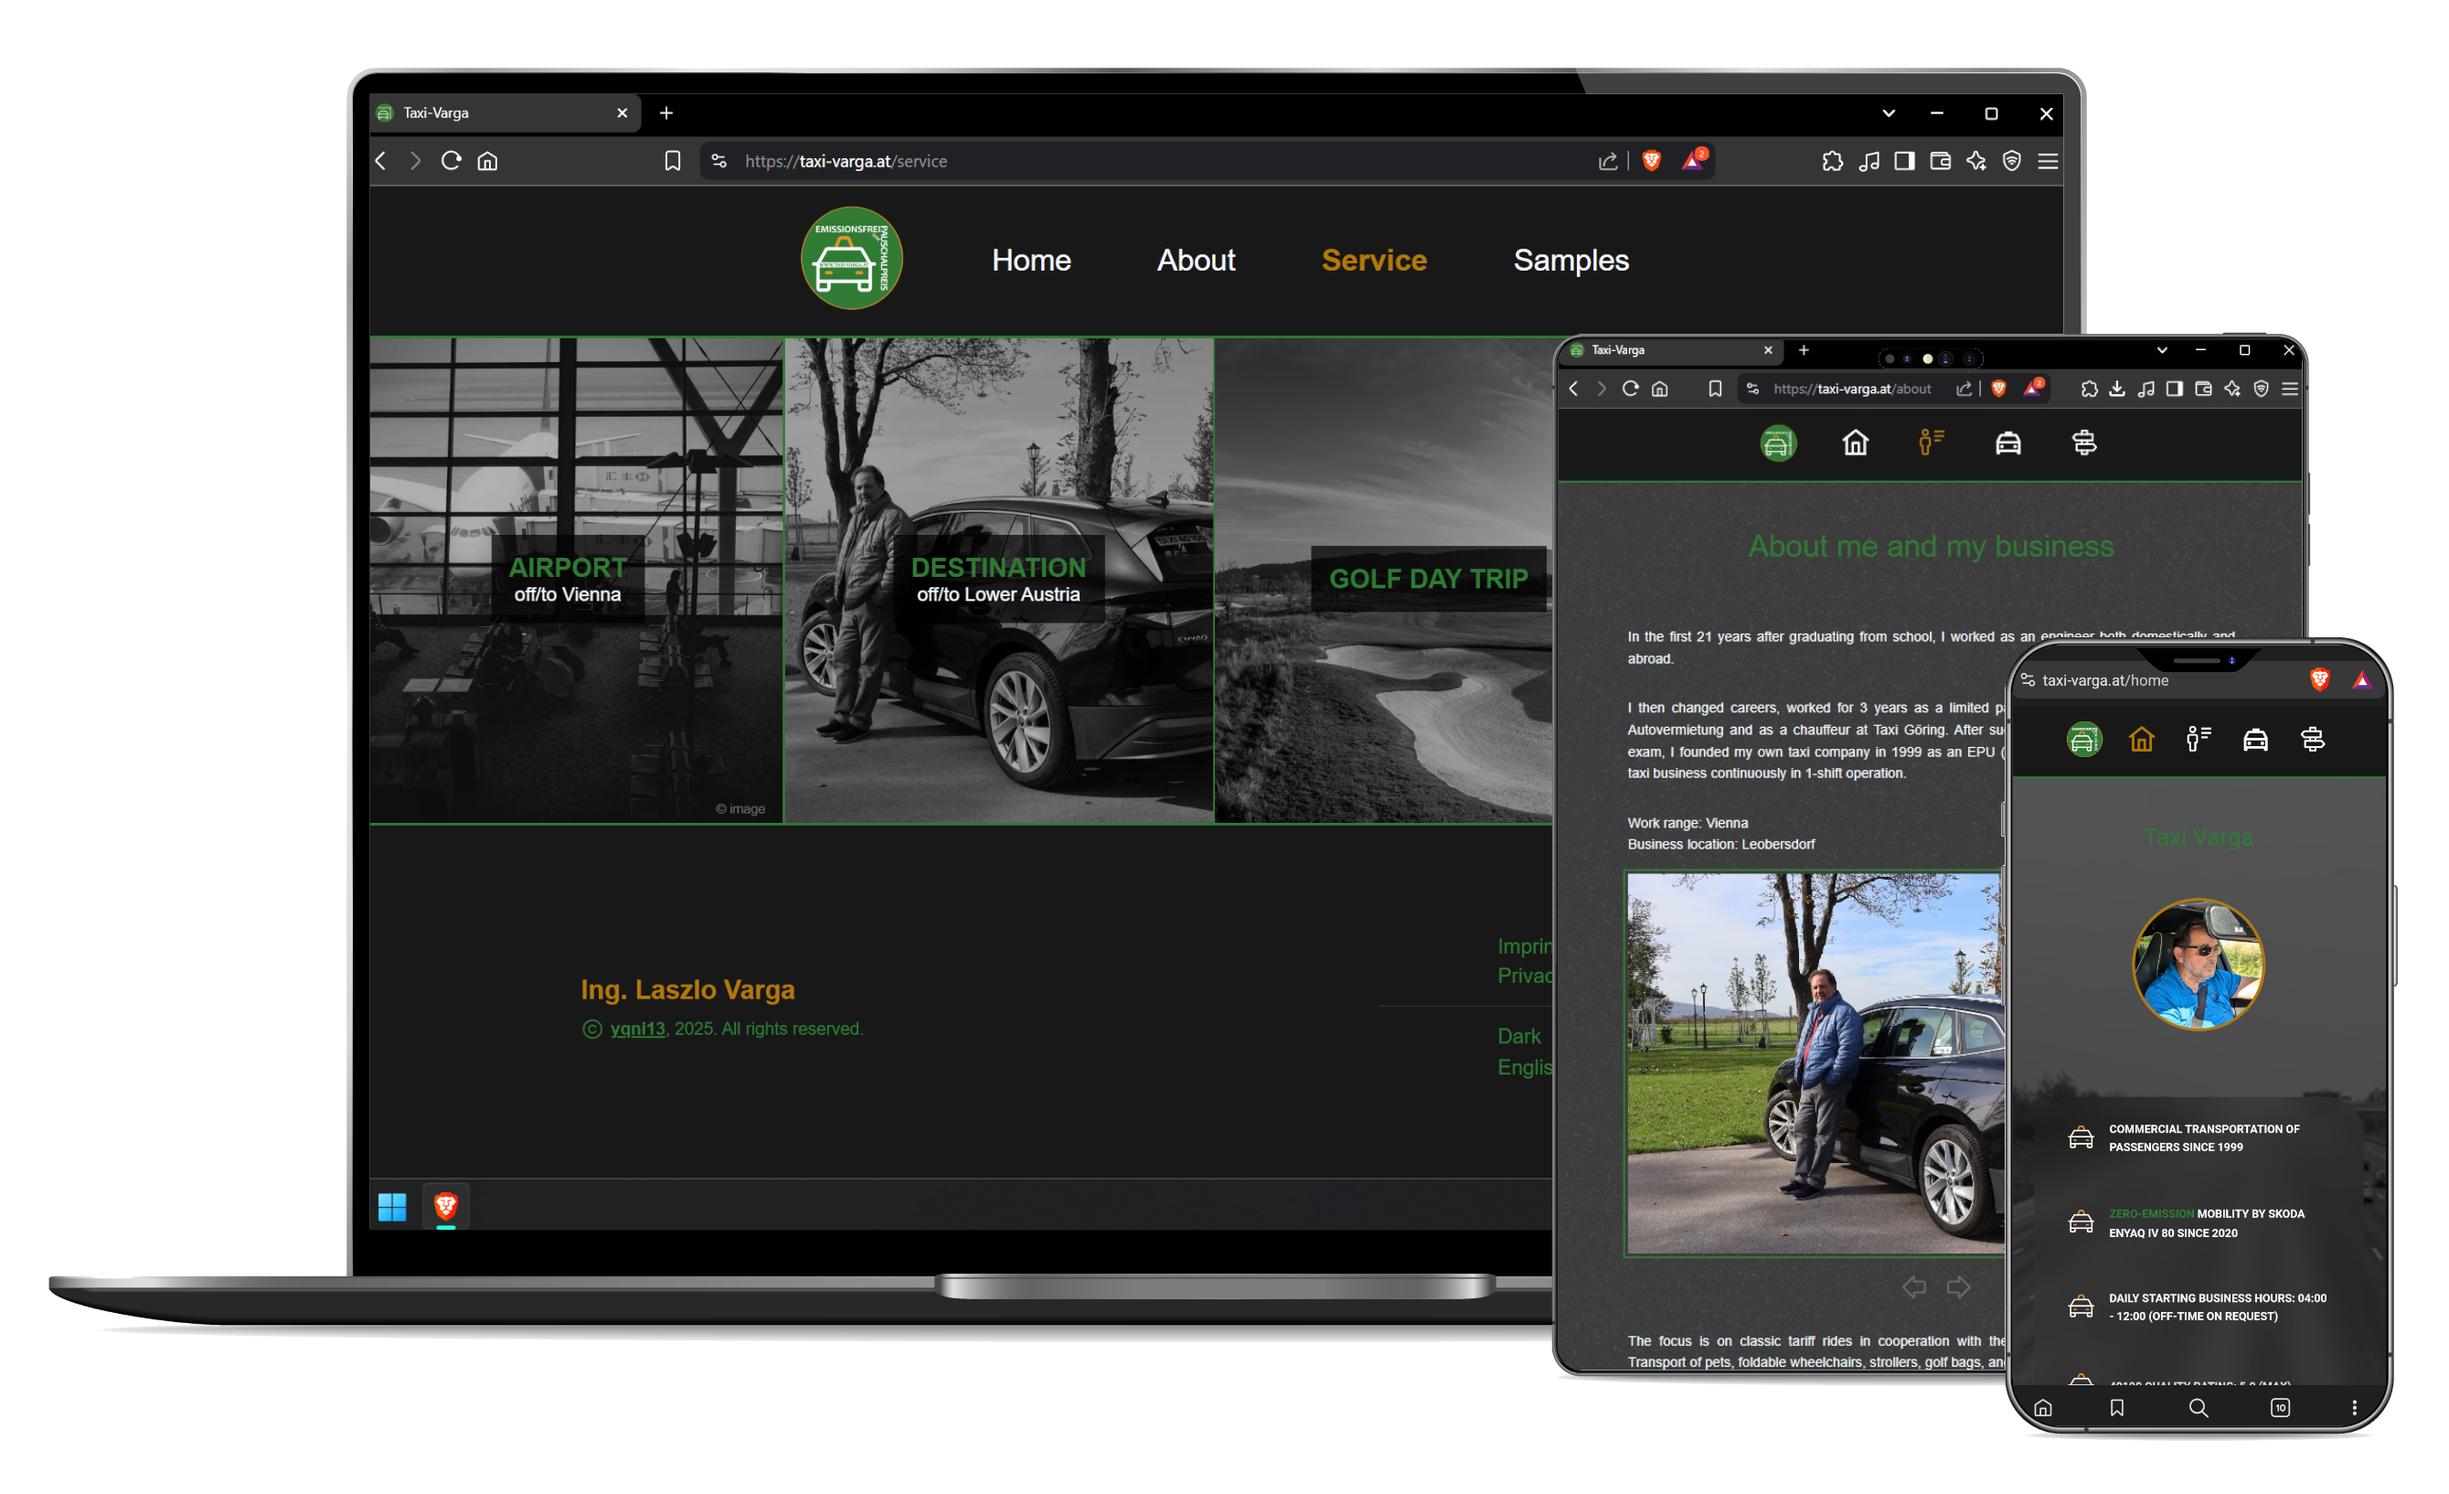
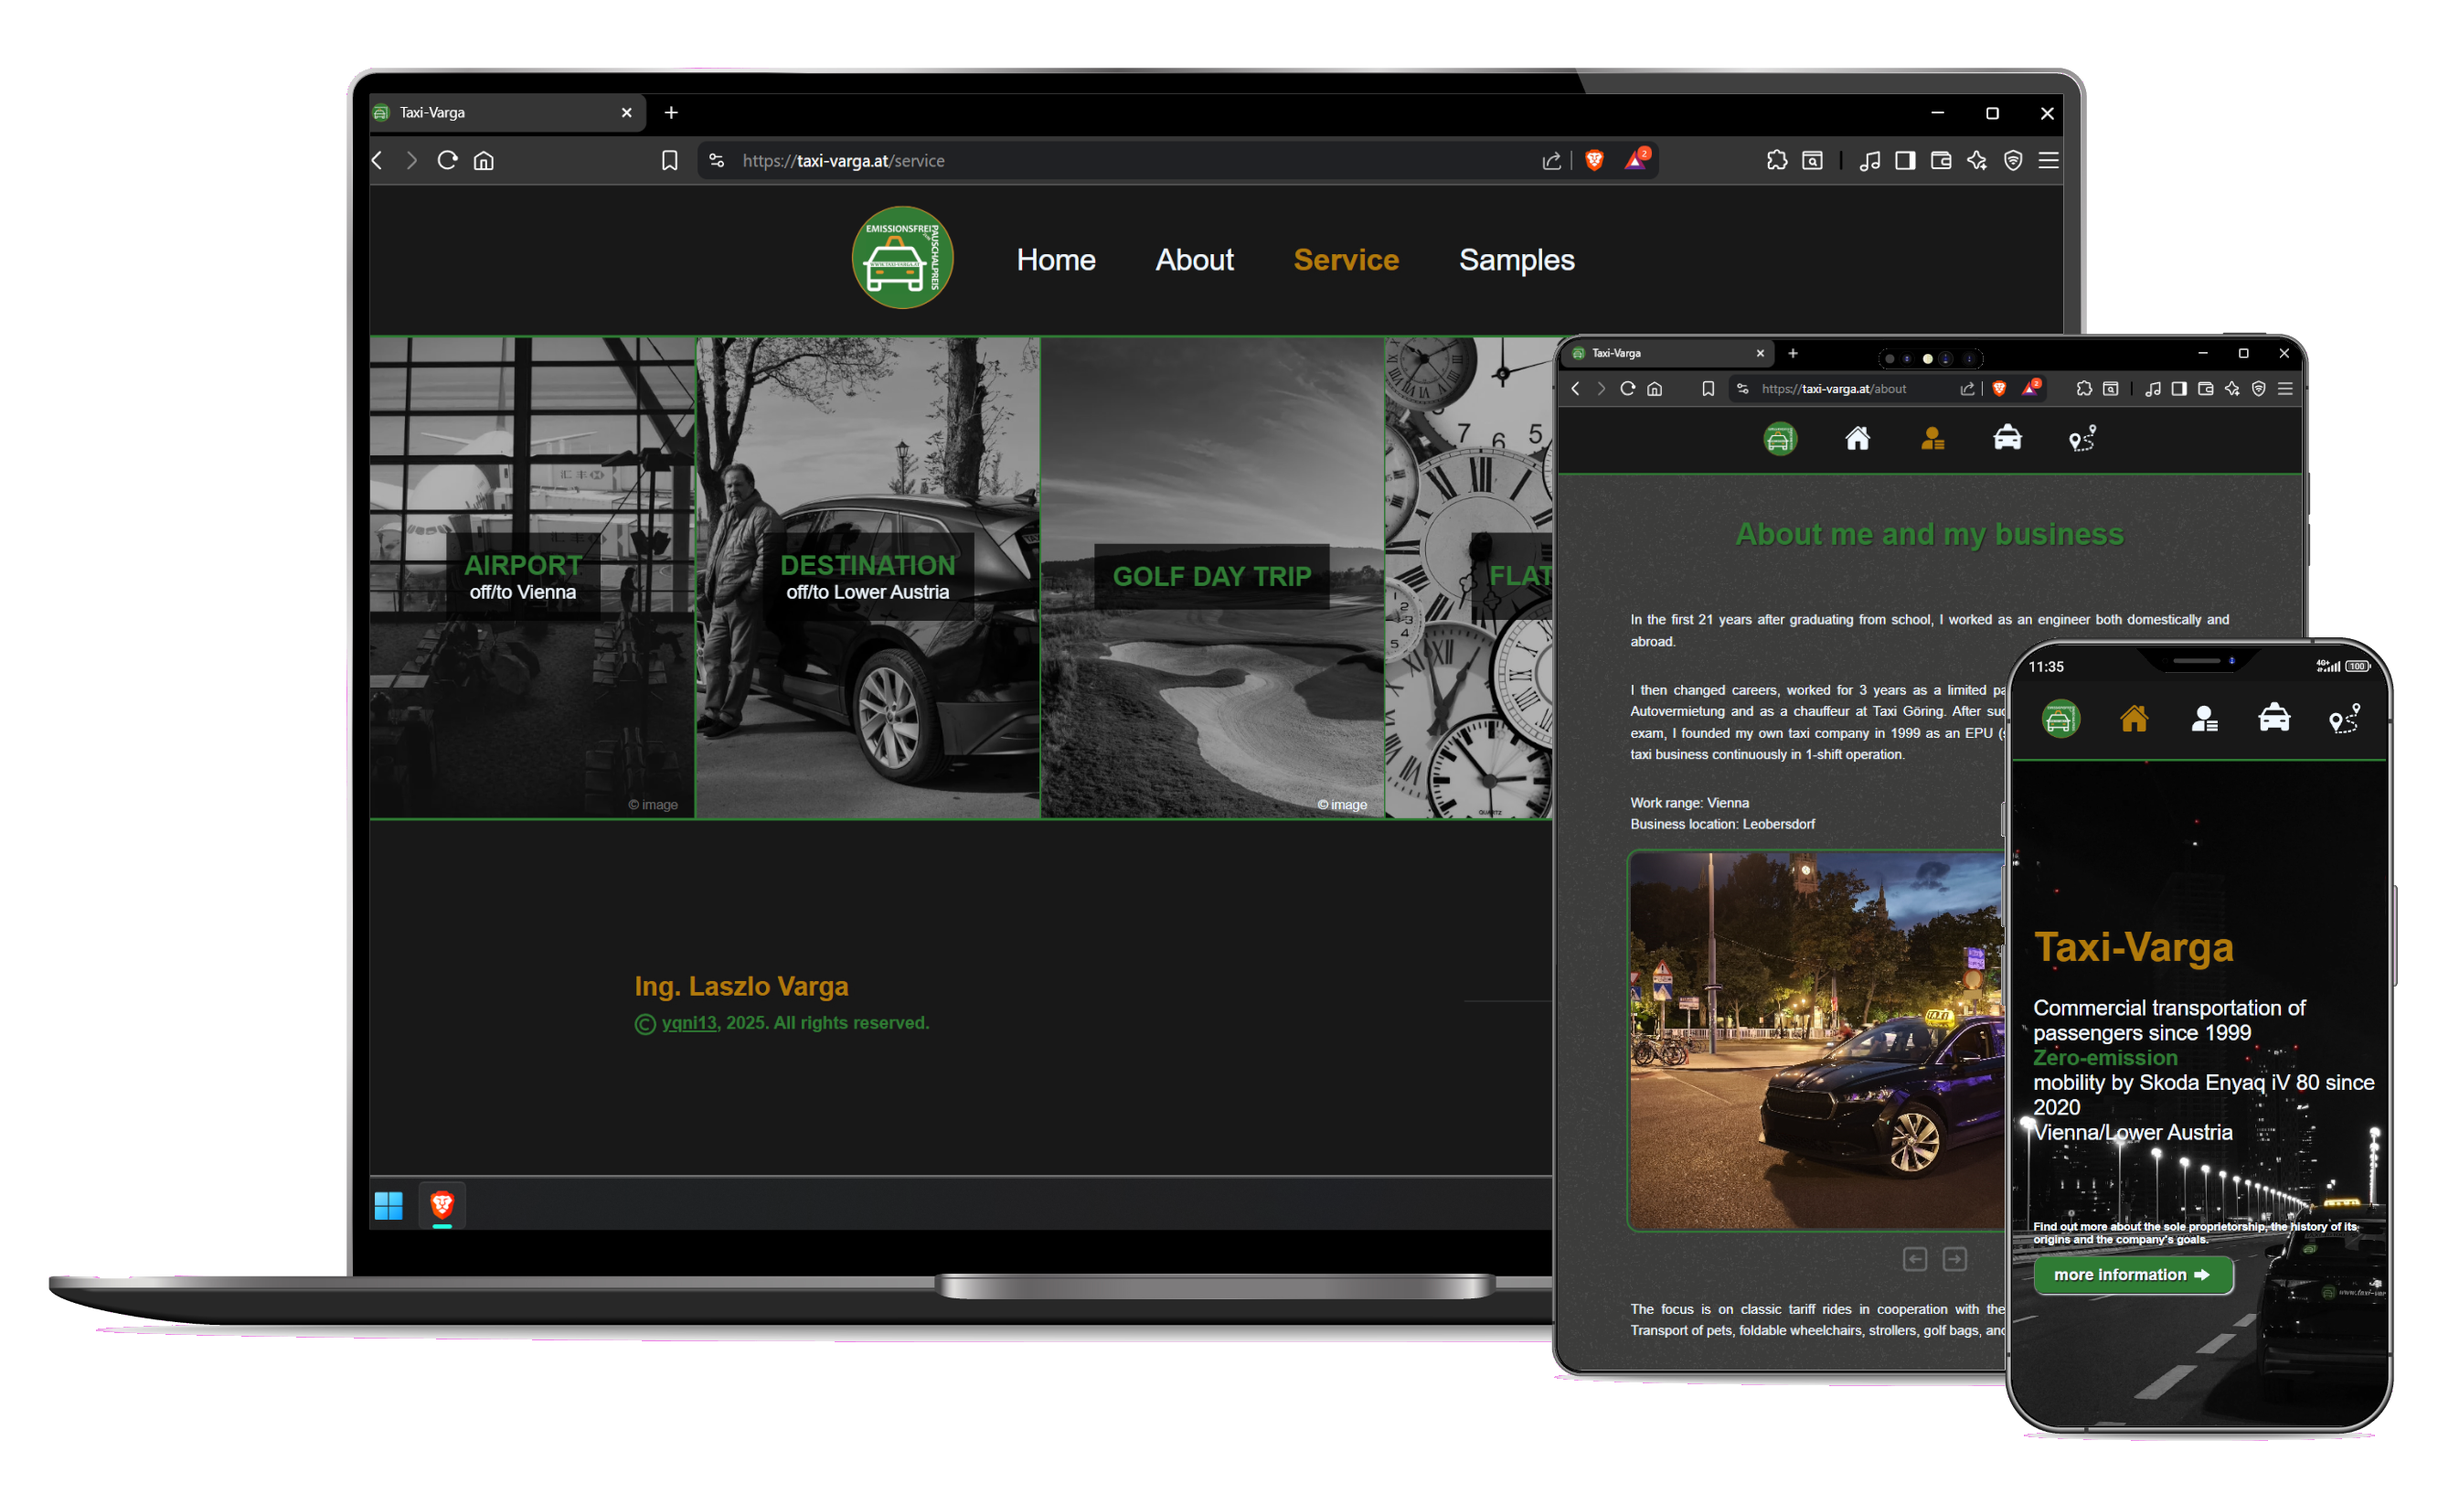
fix: service 'golf' filter bug fix, update docs

diff --git a/frontend/src/app/modules/about/about.component.ts b/frontend/src/app/modules/about/about.component.ts
@@ -28,9 +28,16 @@ export class AboutComponent implements OnInit, OnDestroy {
 
     constructor(
         private readonly observation: ObservationService,
-        private readonly assetPreload: AssetsPreloadService
+        private readonly assetsPreloadService: AssetsPreloadService
     ) {
         this.selectedBg = '';
+        this.images = [];
+        this.isPreloading = true;
+
+        this.subscriptionObservation$ = new Subscription();
+    }
+
+    ngOnInit() {
         this.images = [
             'assets/foto4.jpg',
             'assets/foto3.jpg',
@@ -42,13 +49,7 @@ export class AboutComponent implements OnInit, OnDestroy {
             'assets/foto12.jpg',
             'assets/foto14.jpg'
         ];
-        this.isPreloading = true;
-
-        this.subscriptionObservation$ = new Subscription();
-    }
-
-    ngOnInit() {
-        this.assetPreload.preloadAssets({images: this.images}).finally(() => {
+        this.assetsPreloadService.preloadAssets({images: this.images}).finally(() => {
             this.isPreloading = false;
         });
         

diff --git a/backend/src/services/google-places/google-places.api.js b/backend/src/services/google-places/google-places.api.js
@@ -22,7 +22,7 @@ class GooglePlacesAPI {
     _getDetailsRequestHeader() {
         return {
             'Content-Type': 'application/json',
-            'X-Goog-FieldMask': 'id,types,addressComponents,formattedAddress,displayName',
+            'X-Goog-FieldMask': 'id,primaryType,types,addressComponents,formattedAddress,displayName',
             'X-Goog-Api-Key': this.#env_GOOGLE_API_KEY
         }
     }
@@ -101,7 +101,7 @@ class GooglePlacesAPI {
 
     _transformAutocompletePayload(result, params) {
         if(params['filter'] === AddressFilterOption.GOLF) {
-            Object.assign(result, { "includedPrimaryTypes": ["golf_course", "sports_club"]});
+            Object.assign(result, { "includedPrimaryTypes": ["golf_course", "sports_club", "hotel", "athletic_field"]});
         }
 
         return result;

diff --git a/frontend/src/app/app.routes.ts b/frontend/src/app/app.routes.ts
@@ -21,7 +21,18 @@ export const routes: Routes = [
             title: BaseRoute.HOME,
             showInNavbar: true,
             showInFooter: false,
-            icon: 'icon-home icon-base'
+            icon: 'icon-home icon-base',
+            preloadImages: [
+                'assets/home/home-main-dark.webp',
+                'assets/home/home-main-light.webp',
+                'assets/home/home-sub-dark.webp',
+                'assets/home/home-sub-light.webp',
+                '/assets/service/service-airport.webp',
+                '/assets/service/service-destination.webp',
+                '/assets/service/service-golf.webp',
+                '/assets/service/service-flatrate.webp',
+                '/assets/service/service-quick.webp',
+            ]
         }
     },
     {

diff --git a/frontend/src/app/modules/service/service.component.scss b/frontend/src/app/modules/service/service.component.scss
@@ -46,9 +46,13 @@
         display: flex;
         flex-direction: column;
         text-align: center;
-        backdrop-filter: brightness(0.3);
         padding: sass.$space15;
         cursor: pointer;
+
+        // Filter blur(0px) necessary to visualize border-radius.
+        // bug: https://stackoverflow.com/questions/36378512/backdrop-filter-extends-beyond-border-radius
+        backdrop-filter: brightness(0.3) blur(0px);
+        border-radius: 5px;
 
         span:nth-child(2) {
             color: sass.$color-ice-white;
@@ -248,5 +252,9 @@
     cursor: default;
     pointer-events: none;
     opacity: 0.2;
+}
+
+.tava-button-simple {
+    text-transform: uppercase;
 }
 /* SERVICE SPECIFIC STYLING --- SERVICE SPECIFIC STYLING */

diff --git a/frontend/src/app/modules/imprint/imprint.component.ts b/frontend/src/app/modules/imprint/imprint.component.ts
@@ -35,7 +35,7 @@ export class ImprintComponent implements OnInit, OnDestroy {
         
         this.devData = {
             project: 'taxi-varga',
-            version: 'v1.5.3',
+            version: 'v1.5.6',
             github: 'https://github.com/yqni13/taxi-varga',
             portfolio: 'https://yqni13.com',
             email: 'lukas.varga@yqni13.com'

diff --git a/frontend/src/app/common/components/footer/footer.component.scss b/frontend/src/app/common/components/footer/footer.component.scss
@@ -132,7 +132,7 @@ footer {
         bottom: -5px;
         left: -5px;
         border: solid 2px var(--theme-palette-highlight);
-        border-radius: 5px;
+        border-radius: 15px;
         padding: 15px 0;
         background-color: transparent;
         box-shadow: 0 4px 30px rbga(0, 0, 0, 0.1);

diff --git a/README.md b/README.md
@@ -1,5 +1,5 @@
 # yqni13 | taxi-varga
-$\texttt{\color{teal}{v1.5.3}}$
+$\texttt{\color{teal}{v1.5.6}}$
 
 
 <br><br>
@@ -90,7 +90,7 @@ All services take input for calculating the offer by addresses, timestamps and c
 
 <div align="center">
     <img src="frontend/public/assets/docs/custom_forms_validation.jpg" alt="404 no picture found">
-    Figure 2
+    Figure 2, v1.0.0-beta
 </div>
 
 <br>
@@ -101,7 +101,7 @@ Data from Google, based on the `RoutesAPI`, `PlacesAPI` and `MapsAPI (Geocode)`,
 
 <div align="center">
     <img src="frontend/public/assets/docs/google_autocomplete.png" alt="&nbsp;no picture found">
-    Figure 3
+    Figure 3, v1.0.0
 </div>
 
 <br>
@@ -110,7 +110,7 @@ Additionally, the service for spontaneous drives offers a feature to use coordin
 
 <div align="center">
     <img src="frontend/public/assets/docs/maps_api.gif" alt="&nbsp;no picture found">
-    Figure 4
+    Figure 4, v1.5.2
 </div>
 
 <br>
@@ -121,7 +121,7 @@ The webpage offeres two theme settings: $\textsf{\color{gray}{dark mode}}$ & $\t
 
 <div align="center">
     <img src="frontend/public/assets/docs/theme_i18n.gif" alt="&nbsp;no picture found">
-    Figure 5
+    Figure 5, v1.5.6
 </div>
 
 <br>
@@ -132,7 +132,7 @@ For security reasons, the user automatically starts a service with a background-
 
 <div align="center">
     <img src="frontend/public/assets/docs/session-token_login.jpg" alt="&nbsp;no picture found">
-    Figure 6
+    Figure 6, v1.0.0
 </div>
 
 <br>
@@ -141,7 +141,7 @@ Hybrid encryption is used for encrypting sensible data like the user input used 
 
 <div align="center">
     <img src="frontend/public/assets/docs/encrypted_request.jpg" alt="&nbsp;no picture found">
-    Figure 7
+    Figure 7, v1.0.0
 </div>
 
 <br>
@@ -162,7 +162,7 @@ this.assetsPreloadService.preloadAssets({
 
 <div align="center">
     <img src="frontend/public/assets/docs/preload.gif" alt="&nbsp;no picture found">
-    Figure 8
+    Figure 8, v1.2.2
 </div>
 
 <br>
@@ -193,7 +193,7 @@ Preventing an unwanted merge with unfinished/failed test run, the project is set
 
 <div align="center">
     <img src="frontend/public/assets/docs/github-action-jest.jpg" alt="&nbsp;no picture found">
-    Figure 9
+    Figure 9, v1.3.1
 </div>
 
 <br>
@@ -233,9 +233,11 @@ $ npm run lint
 ## Updates
 [list of all updates](update_protocol.md)
 
-### $\textsf{last\ update\ 1.5.2\ >>\ {\color{pink}1.5.3}}$
+### $\textsf{last\ update\ 1.5.3\ >>\ {\color{pink}1.5.6}}$
 
-- $\textsf{\color{red}Patch:}$ Updated validation on service 'airport' to refuse addresses without zipcode.
+- $\textsf{\color{green}Change:}$ Updated design of starting page + small style modifications on existing pages.
+- $\textsf{\color{red}Bugfix:}$ Searching for golf courses within service 'golf' results in listing all existing establishments. [Before: Searching for certain golf courses resulted in missing entries because some golf courses have primary type "hotel" which was not filtered for.]
+- $\textsf{\color{red}Patch:}$ Updated return calculation on service 'quick'.
 
 <br>
 

diff --git a/update_protocol.md b/update_protocol.md
@@ -4,6 +4,12 @@
 
 <br>
 
+### 2025/07/27 - $\textsf{last\ update\ 1.5.3\ >>\ {\color{pink}1.5.6}}$
+
+- $\textsf{\color{green}Change:}$ Updated design of starting page + small style modifications on existing pages.
+- $\textsf{\color{red}Bugfix:}$ Searching for golf courses within service 'golf' results in listing all existing establishments. [Before: Searching for certain golf courses resulted in missing entries because some golf courses have primary type "hotel" which was not filtered for.]
+- $\textsf{\color{red}Patch:}$ Updated return calculation on service 'quick'.
+
 ### 2025/07/18 - $\textsf{last\ update\ 1.5.2\ >>\ {\color{pink}1.5.3}}$
 
 - $\textsf{\color{red}Patch:}$ Updated validation on service 'airport' to refuse addresses without zipcode.
